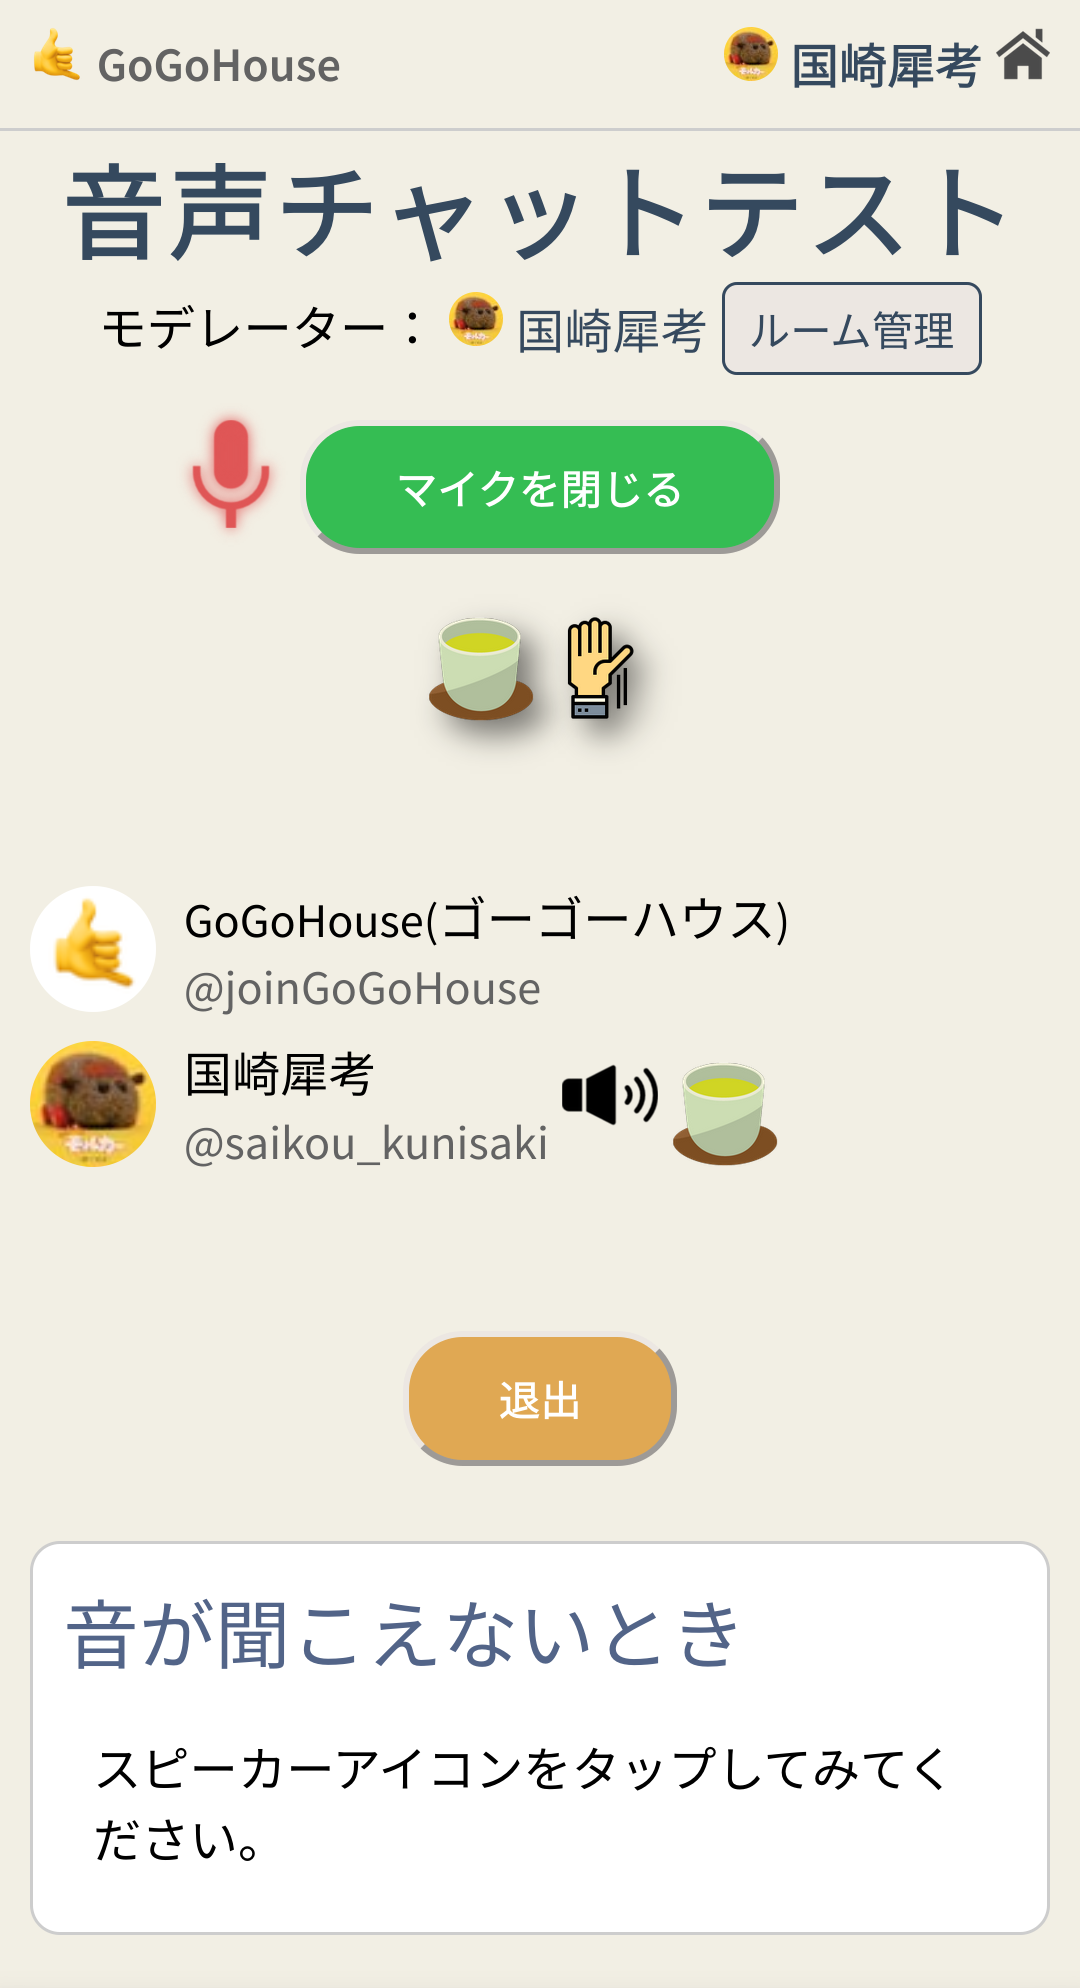
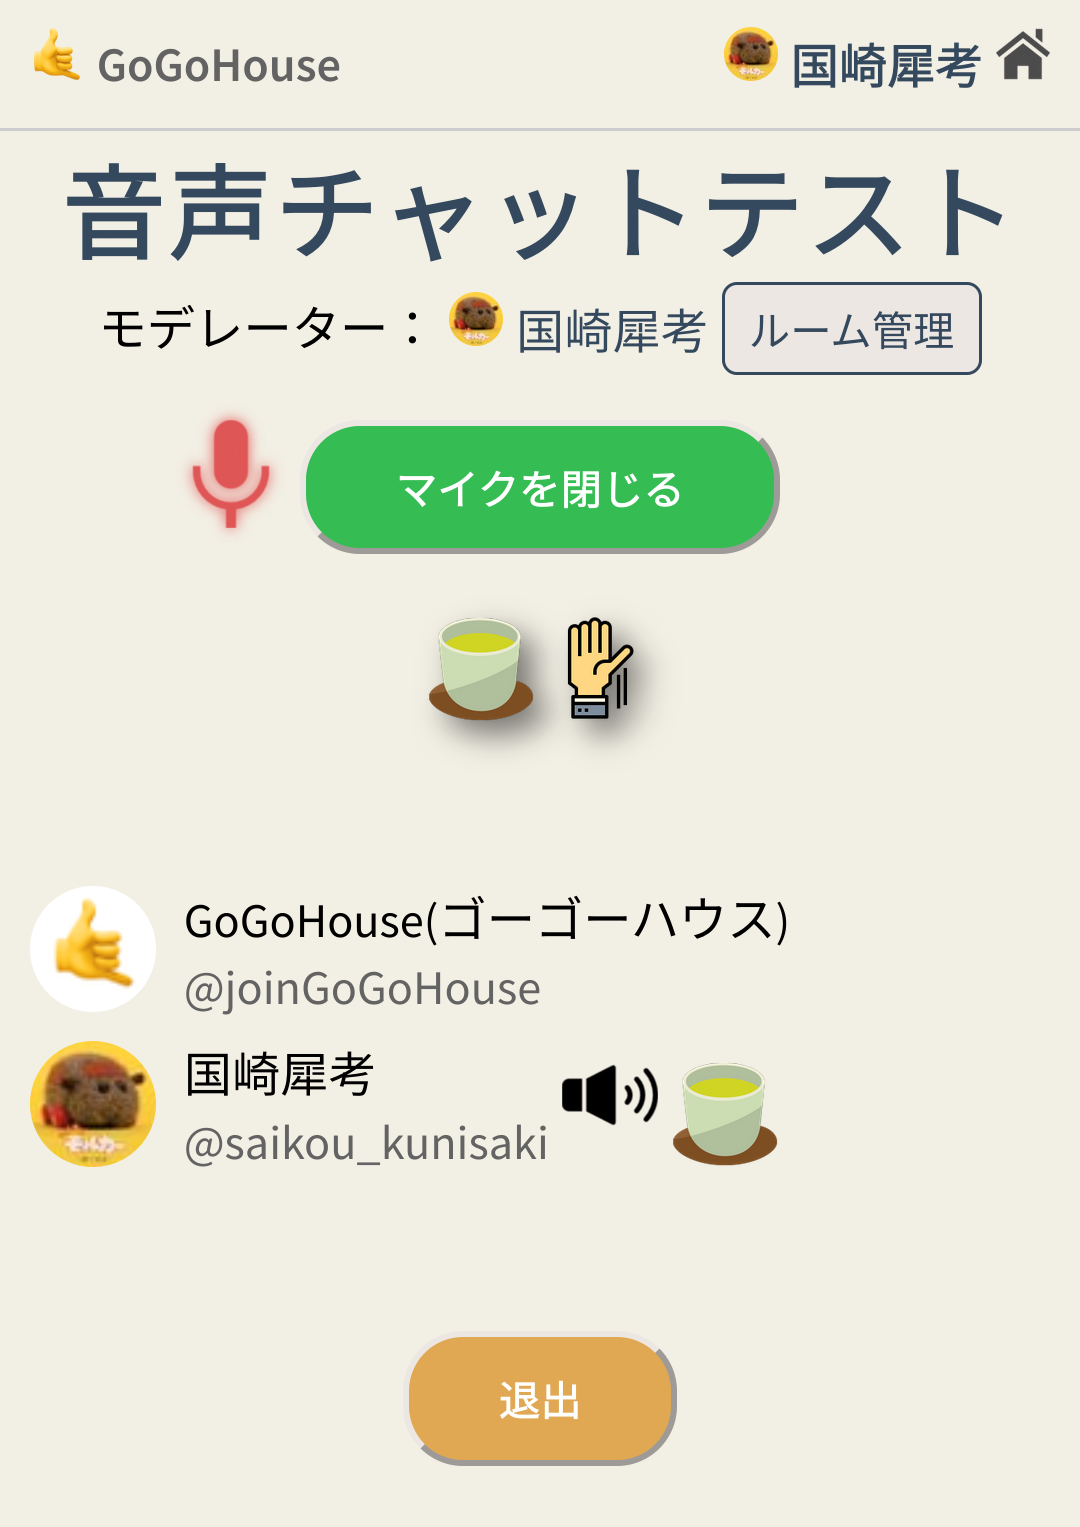
退会時にルーム削除

diff --git a/pages/help.vue b/pages/help.vue
@@ -4,9 +4,9 @@
       <h1 class="title">ヘルプ</h1>
       <h2 class="subtitle mt-50">使い方</h2>
       <p>
-        自分のルームを作り、Twitterのフォロワーを誘ってルームに入ると、音声トークをすることができます。
-        (リプライして誘ったほうが参加しやすいようです)<br /><br />
-        ルームに入れる人をTwitterの相互フォロー限定にしたり、指定した人だけが発言できるようにするなど細かく管理できるのが特徴です。
+        自分のルームを作りTwitterのフォロワーを誘って、音声トークをすることができます。(聴くだけも可)
+        <br /><br />
+        なんとTwitterアプリ内でそのまま動作します。
       </p>
       <h2 class="subtitle mt-50">動作状況</h2>
       <p>
@@ -78,11 +78,15 @@
           <strong>ルーム</strong>
           ・・・音声トークができる場所です。数人がトークしてほかの人は聴くだけのような使い方もできます。<br />
         </li>
-        <img class="annotation" src="/help/room.png" alt="ルーム" />
         <li>
           <strong>モデレーター</strong
           >・・・ルームを作成して管理する人です。会話の進行も任されます。
         </li>
+        <li>
+          <strong>スタンプ</strong>
+          ・・・さりげなく休憩中や挙手の意思を表示できます
+        </li>
+        <img class="annotation" src="/help/room.png" alt="ルーム" />
         <li>
           <strong>メンバー</strong>
           ・・・ルームに属する人。ルーム内のピンクの☆を押して★にするとなれます<br />
@@ -99,15 +103,16 @@
         <li>
           <strong>クローズドルーム</strong>・・・ルームのメンバーだけ入れます
         </li>
+        <img class="annotation" src="/help/create_room.png" alt="ルーム作成" />
         <li>
           <strong>ルーム管理</strong>
           ・・・モデレーターがルームの管理をする画面です<br />
         </li>
-        <img class="annotation" src="/help/manage_room.png" alt="ルーム管理" />
         <li><strong>[KICK]</strong>・・・ルームから一度だけ追い出します</li>
         <li><strong>[BAN]</strong>・・・ルームに出入り禁止にします</li>
         <li><strong>[MIC]</strong>・・・ユーザーにマイク権を与えます</li>
         <li><strong>[MEM]</strong>・・・ルームのメンバーに追加します</li>
+        <img class="annotation" src="/help/manage_room.png" alt="ルーム管理" />
         <li>
           <strong>予約メンバー</strong>
           ・・・TwitterユーザーがまだGoGoHouseにログインしていない場合は、
@@ -153,6 +158,13 @@
           二重に音声が聞こえるのとハウリング防止のため、ヘッドホンを使って音声を聴くのを推奨します。
         </li>
         <li>
+          TwitterでURLをシェアしたあと、ルームの中で待機していればフォロワーさんが入りやすくなります。
+          初対面の人はあいさつから始めましょう。
+        </li>
+        <li>
+          1対1では気が引けるが、3人以上ならおしゃべりに参加しやすいという人も多いようです。
+        </li>
+        <li>
           マイクを開くボタンを押すとブラウザでマイクの使用許可を求められるので許可してください。
         </li>
         <li>
@@ -168,22 +180,13 @@
           スマートフォンの画面が暗くなるとマイクの録音が止まることがあるようです。その時は画面を触り続けてください。
         </li>
         <li>
-          相手に聞こえてなさそうなときはマイクを閉じてから開きなおすか、それでも直らないならリロードしてみてください。
-        </li>
-        <li>
           debugボタンから音声の接続状況とエラーログを見ることができます（英語）
         </li>
         <li>
-          GoGoHouse内にプロフィール、アイコン、フォロー、チャット、お気に入り、DMなどの機能はありません。Twitterで行ってください。
+          GoGoHouseはシンプルな作りになっているためプロフィール、アイコン、フォロー、チャット、お気に入り、DMなどの機能はありません。申し訳ありませんがTwitterで行ってください。
         </li>
         <li>
-          一度ログアウトしてログインしなおすとTwitterのプロフィールが反映されます。
-        </li>
-        <li>
-          TwitterでURLをシェアしたあと、ルームの中で待機していればフォロワーさんが入りやすくなります。
-        </li>
-        <li>
-          今のところ、GoGoHouse内に検索と通知機能はないのでTwitterでのシェアだけが頼りです。
+          一度ログアウトしてログインしなおすとTwitterのプロフィールとアイコンが反映されます。
         </li>
         <li>
           デフォルトではモデレーター不在時にはマイクは開けません。ルーム管理から変更できます。
@@ -194,7 +197,8 @@
           <strong>
             <a href="https://twitter.com/account/switch">Twitterアカウント</a>
           </strong>
-          からログインしなおしてください。（アプリのアカウントには影響を与えません）
+          からログインしなおしてください。
+          （Twitterアプリのアカウントには影響を与えません）
         </li>
       </ul>
       <h2 class="subtitle mt-50">既知の問題</h2>
@@ -219,14 +223,25 @@
           ソーシャルルームの入場判定をするのに時間あたり回数制限があります
         </li>
       </ul>
+      <h2 class="subtitle mt-50">名前の由来</h2>
+      <p>
+        Clubhouse、Discohouseときて次は何だ？ゴーゴーだ！知らない人はお父さんやお母さんに聞いてみよう。
+        <a
+          href="https://ja.wikipedia.org/wiki/%E3%82%B4%E3%83%BC%E3%82%B4%E3%83%BC%E5%96%AB%E8%8C%B6"
+          target="_blank"
+          rel="noreferrer"
+        >
+          Wikipedia - ゴーゴー喫茶
+        </a>
+      </p>
       <h2 class="subtitle mt-50">退会</h2>
       <p>
         退会はログインした状態で
         <nuxt-link to="/withdrawal">こちらのリンク</nuxt-link>
-        で退会ボタンを押すとできます
+        から退会ボタンを押すとできます。退会後、お手数ですが認証したTwitterアプリ連携の解除をお願いいたします。
       </p>
       <p class="reload m-50">
-        オープンβテスト中です<br /><br />動作がおかしくなったらトップページのリロードをクリックしてください
+        動作がおかしくなったらトップページのリロードをクリックしてください
       </p>
     </div>
   </div>
@@ -234,8 +249,16 @@
 
 <script lang="ts">
 import Vue from 'vue'
+import userMapper from '@/store/user'
 
-export default Vue.extend({})
+export default Vue.extend({
+  created() {
+    this.GET_USER()
+  },
+  methods: {
+    ...userMapper.mapActions(['GET_USER']),
+  },
+})
 </script>
 
 <style lang="scss" scoped>

diff --git a/service/userAPI.js b/service/userAPI.js
@@ -17,7 +17,10 @@ export const getRedirectResult = () => {
           const myName = userCredential.user.displayName
           const screenName = userCredential.additionalUserInfo.username
           const twitterId = userCredential.additionalUserInfo.profile.id_str
-          const iconUrl = userCredential.user.photoURL
+          const iconUrl = userCredential.user.photoURL.replace(
+            '_normal',
+            '_bigger'
+          )
           const profile = userCredential.additionalUserInfo.profile.description
           const accessToken = userCredential.credential.accessToken
           const accessTokenSecret = userCredential.credential.secret
@@ -39,7 +42,7 @@ export const getRedirectResult = () => {
                 created_at: firebase.firestore.FieldValue.serverTimestamp(),
               }
               await UserRef.set(myData)
-              /* RealtimeDatabaseにstatusとlast_changedを作成 */
+
             } else {
               myData = {
                 name: myName,

diff --git a/components/TwitterLogin.vue b/components/TwitterLogin.vue
@@ -1,9 +1,7 @@
 <template>
   <div class="main">
     <div class="agree-area">
-      <p class="service">
-        無料でTwitterフォロワーと音声トークができるサービスです
-      </p>
+      <p class="service">無料でTwitterフォロワーと音声トークができます</p>
       <div class="agree-checkbox">
         <a href="/term.html" target="_blank">利用規約</a>に
         <input type="checkbox" v-model="agree" id="checkbox" />
@@ -14,7 +12,7 @@
           alt="Twitterアイコン"
           src="/twitter_bird.png"
           class="twitter-logo"
-        />Twitter連携でログイン
+        />Twitterに連携
       </a>
       <div class="notice">※勝手にツイートすることはありません</div>
     </div>
@@ -135,6 +133,7 @@ a {
   color: #ffffff;
   text-decoration: none;
   padding: 10px 20px;
+  font-size: 20px;
   font-weight: 600;
   cursor: pointer;
 }

diff --git a/components/NamePlate.vue b/components/NamePlate.vue
@@ -2,7 +2,7 @@
   <div class="plate">
     <client-only>
       <a :href="toLink" :disabled="isDisabled">
-        <img class="icon" :src="userData.icon" />
+        <img class="icon" :src="userData.icon" alt="アイコン" />
         <div class="name-area">
           <span class="name">{{ userData.name }}</span>
           <br />
@@ -25,11 +25,13 @@
       <img
         v-if="signalShow && ifRest"
         src="/tea_icon.png"
+        alt="お茶"
         class="signal-icon"
       />
       <img
         v-if="signalShow && ifRaise"
         src="/raise_hand_icon.png"
+        alt="挙手"
         class="signal-icon"
       />
     </client-only>
@@ -129,6 +131,7 @@ export default Vue.extend({
   border-radius: 50%;
   width: 42px;
   height: 42px;
+  background-color: #aab8c2;
 }
 
 .name-area {

diff --git a/functions/src/index.ts b/functions/src/index.ts
@@ -429,11 +429,23 @@ exports.withdrawal = functions
     const uid = context.auth!.uid
     const batch = firestore.batch()
 
+    await deleteRoom()
     await roomArrayRemove('members')
     await roomArrayRemove('mic_assign')
     deleteCollection('users')
     deleteCollection('user_privates')
     batch.commit().catch()
+
+    async function deleteRoom() {
+      const querySnapshot = await firestore
+        .collection('rooms')
+        .where('creater_id', '==', uid)
+        .get()
+
+      querySnapshot.forEach((doc) => {
+        batch.delete(firestore.collection('rooms').doc(doc.id))
+      })
+    }
 
     async function roomArrayRemove(key: string) {
       const querySnapshot = await firestore

diff --git a/nuxt.config.js b/nuxt.config.js
@@ -14,7 +14,7 @@ export default {
         hid: 'description',
         name: 'description',
         content:
-          'アプリ不要でフォロワーとおしゃべりしよう。Twitter連携だけですぐに参加できる音声トークサービスです。',
+          'アプリ不要でフォロワーとおしゃべりしよう。Twitter連携だけですぐに参加できる音声トークサービスです。あの人としゃべってみたいと思ったことはありませんか？そんな願いを叶えます。',
       },
       {
         hid: 'og:site_name',

diff --git a/components/HowToUseInRoom.vue b/components/HowToUseInRoom.vue
@@ -1,7 +1,7 @@
 <template>
   <div>
     <div class="impression">
-      <h2 class="subtitle">音が聞こえないとき</h2>
+      <h2 class="subtitle">iPhoneで音が聞こえない時</h2>
       <p>スピーカーアイコンをタップしてみてください。</p>
     </div>
     <div class="impression twitter" v-if="room.name">

diff --git a/pages/index.vue b/pages/index.vue
@@ -73,6 +73,7 @@ export default Vue.extend({
 .gogo-area {
   background-image: url('/gogo.jpg');
   background-size: cover;
+  background-color: white;
   width: 100vw;
   max-width: 380px;
   height: 240px;

diff --git a/components/NamePlateMini.vue b/components/NamePlateMini.vue
@@ -61,6 +61,7 @@ export default Vue.extend({
   border-radius: 50%;
   width: 18px;
   height: 18px;
+  background-color: #aab8c2;
 }
 
 .display-name {
